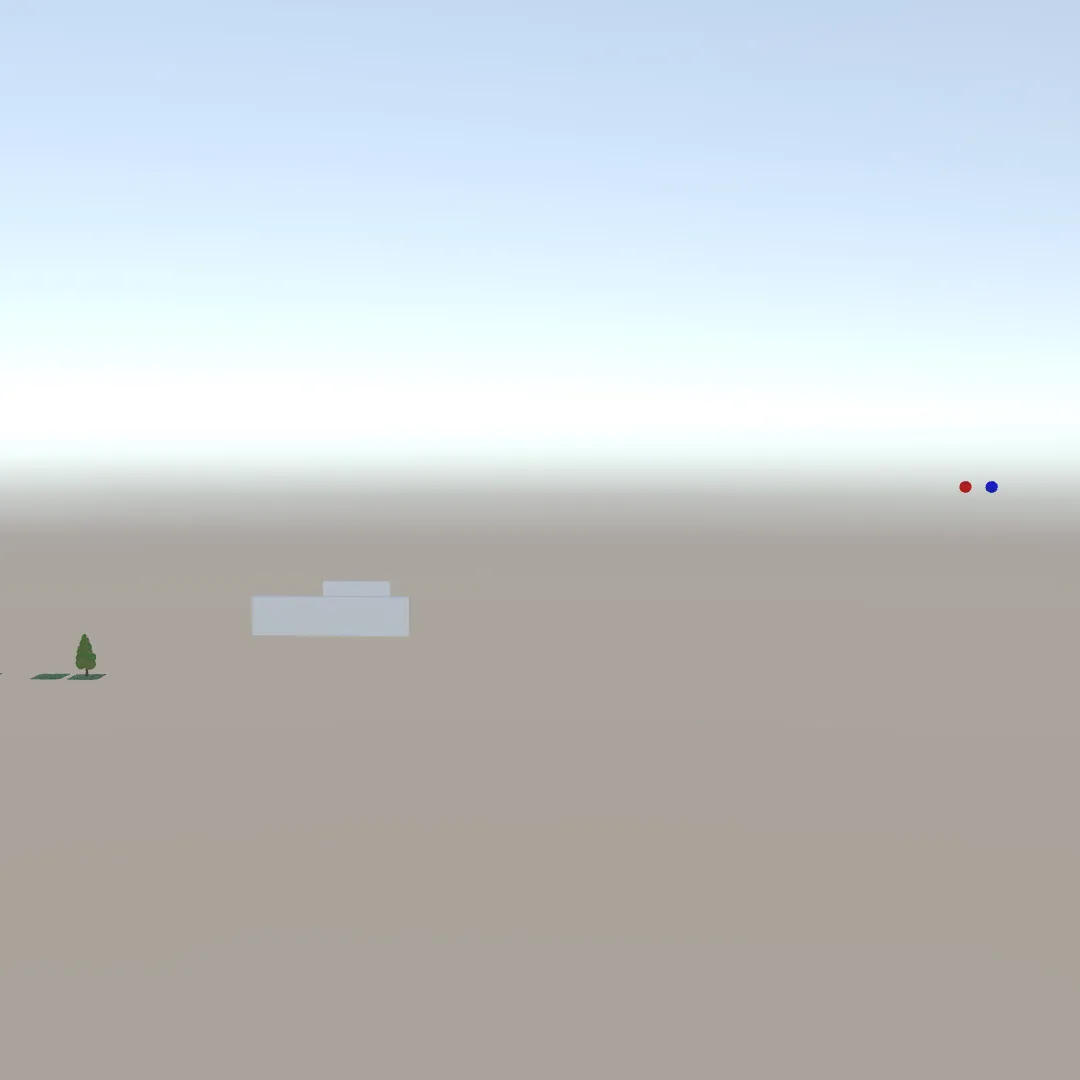
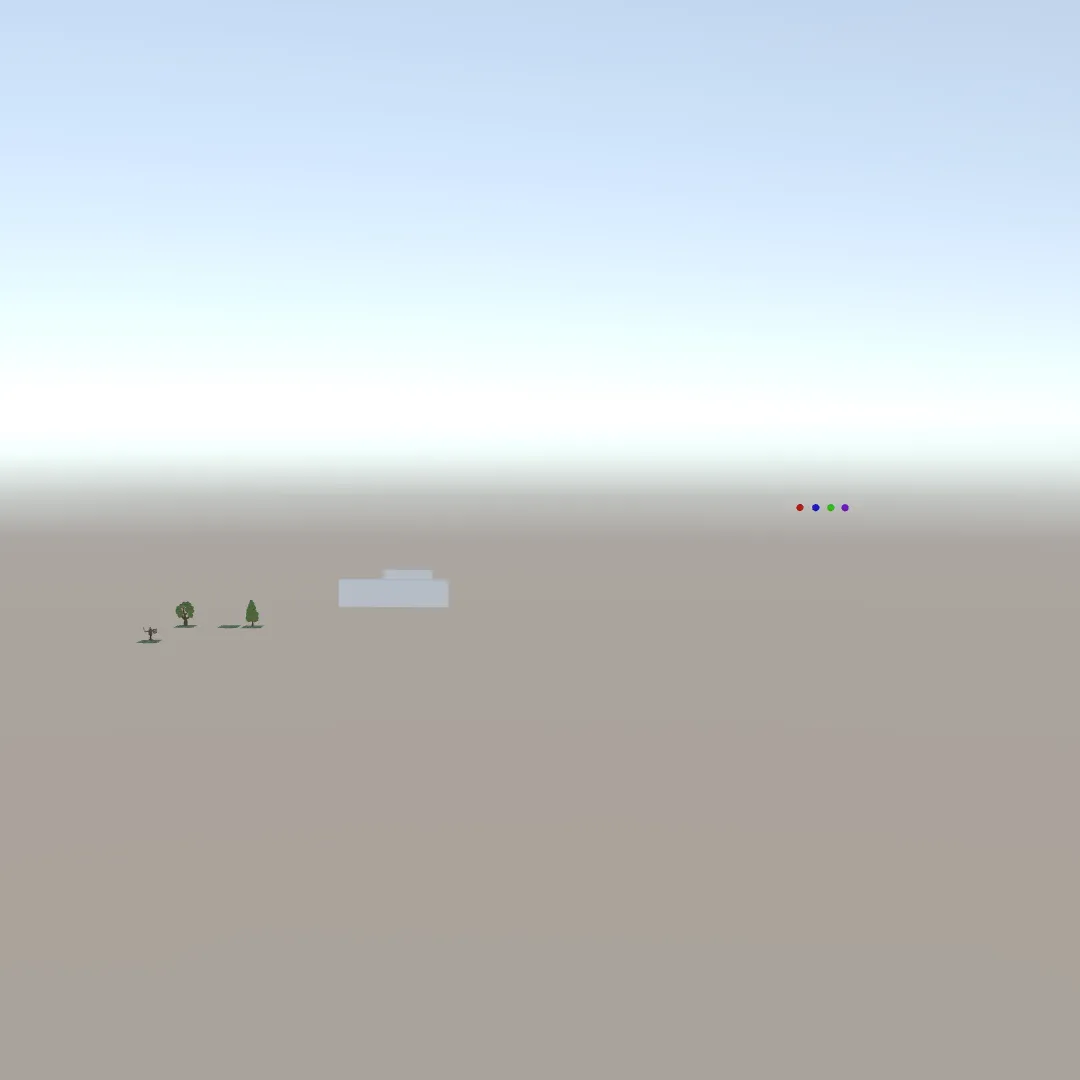
sync balls

diff --git a/AR Minigolf/Needle/newProject/src/scripts/shootBall.ts b/AR Minigolf/Needle/newProject/src/scripts/shootBall.ts
@@ -8,8 +8,6 @@ import { PowerBarHandler } from "./power-bar/PowerBarHandler";
 import { ButtonVisibilityHandler } from "./buttons/ButtonVisibilityHandler";
 import { BallPositionClient } from "./ballposition/ballposition.client";
 import { BallPosition } from "./ballposition/ballposition.model";
-import { DB_BASE_URL } from "../constants";
-import { DisplayedBallPosition } from "./ballposition/displayedBallPosition";
 
 export class ShootBall extends Behaviour {
     private shot: boolean = false;
@@ -40,7 +38,6 @@ export class ShootBall extends Behaviour {
         this.registerSensorEvents();
         this.registerButtonClick();
 
-        setInterval(this.getOtherBallPositions.bind(this), 100);
         setInterval(this.uploadBallPosition.bind(this), 100) 
     }
 
@@ -116,66 +113,6 @@ export class ShootBall extends Behaviour {
         if (!this.directionIndicator) throw new Error('direction indicator is undefined');
 
         this.directionIndicator.visible = visible;
-    }
-
-    private async getOtherBallPositions() {
-        const urlParams = new URLSearchParams(window.location.search);
-        const ownColor = urlParams.get('ball');
-        const sessionId = urlParams.get('sessionId') as string
-        const session = await this.getSession(sessionId);
-
-        const ballPositions = await this.ballPosotionClient.getBallPositions();
-
-        ballPositions.forEach((position) => {
-            const index = session.players.indexOf(position.player);
-            const color = this.getBallColor(index);
-            if (color != ownColor) {
-
-                this.changeDisplayedBallPosition(color, position.x, position.y, position.z);
-            }
-        });
-    }
-
-    private async getSession(id: string): Promise<any> {
-        try {
-            const response = await fetch(`${DB_BASE_URL}/session`);
-            const responseData = await response.json();
-            for (const session of responseData) {
-                if (session.id === id) {
-                    return session;
-                }
-            }
-        } catch (error) {
-            console.error('Error fetching sessions:', error);
-        }
-    }
-
-    private getBallColor(playerIndex) {
-        const colors = ['red', 'blue', 'green', 'purple'];
-
-        return colors[playerIndex];
-    }
-
-    private changeDisplayedBallPosition(color: string, x: number, y: number, z: number) {
-
-        switch (color) {
-            case "blue":
-                const blueBallPosition: DisplayedBallPosition = new DisplayedBallPosition();
-                blueBallPosition.setWorldPosition(x,y,z);
-                break;
-            case "green":
-                const greenBallPosition: DisplayedBallPosition = new DisplayedBallPosition();
-                greenBallPosition.setWorldPosition(x,y,z);
-                break;
-            case "red":
-                const redBallPosition: DisplayedBallPosition = new DisplayedBallPosition();
-                redBallPosition.setWorldPosition(x,y,z);
-                break;
-            case "purple":
-                const purpleBallPosition: DisplayedBallPosition = new DisplayedBallPosition();
-                purpleBallPosition.setWorldPosition(x,y,z);
-                break;
-        }
     }
 
     private uploadBallPosition(){

diff --git a/AR Minigolf/Needle/newProject/src/scripts/syncBalls.ts b/AR Minigolf/Needle/newProject/src/scripts/syncBalls.ts
@@ -1,0 +1,78 @@
+import { Behaviour, Collision, Renderer, serializable } from "@needle-tools/engine"
+import { Object3D } from "three";
+import { DB_BASE_URL } from "../constants";
+import { BallPositionClient } from "./ballposition/ballposition.client";
+
+export class SyncBalls extends Behaviour {
+    private ballPosotionClient = new BallPositionClient();
+
+    @serializable(Object3D)
+    blueBall?: Object3D
+
+    @serializable(Object3D)
+    redBall?: Object3D
+
+    @serializable(Object3D)
+    greenBall?: Object3D
+
+    @serializable(Object3D)
+    purpleBall?: Object3D
+
+    async start() {
+        setInterval(this.getOtherBallPositions.bind(this), 50);
+    }
+    private async getOtherBallPositions() {
+        const urlParams = new URLSearchParams(window.location.search);
+        const ownColor = urlParams.get('ball');
+        const sessionId = urlParams.get('sessionId') as string
+        const session = await this.getSession(sessionId);
+
+        const ballPositions = await this.ballPosotionClient.getBallPositions();
+
+        ballPositions.forEach((position) => {
+            const index = session.players.indexOf(position.player);
+            const color = this.getBallColor(index);
+            if (color != ownColor) {
+
+                this.changeDisplayedBallPosition(color, position.x, position.y, position.z);
+            }
+        });
+    }
+
+    private async getSession(id: string): Promise<any> {
+        try {
+            const response = await fetch(`${DB_BASE_URL}/session`);
+            const responseData = await response.json();
+            for (const session of responseData) {
+                if (session.id === id) {
+                    return session;
+                }
+            }
+        } catch (error) {
+            console.error('Error fetching sessions:', error);
+        }
+    }
+
+    private getBallColor(playerIndex) {
+        const colors = ['red', 'blue', 'green', 'purple'];
+
+        return colors[playerIndex];
+    }
+    
+    private changeDisplayedBallPosition(color: string, x: number, y: number, z: number) {
+        switch (color) {
+            case "blue":
+                this.blueBall?.position.set(x,y,z);
+                break;
+            case "green":
+                this.greenBall?.position.set(x,y,z);
+                break;
+            case "red":
+                this.redBall?.position.set(x,y,z);
+                break;
+            case "purple":
+                this.purpleBall?.position.set(x,y,z);
+                break;
+        }
+    }
+}

diff --git a/AR Minigolf/Needle/newProject/src/scripts/ballposition/displayedBallPosition.ts b/AR Minigolf/Needle/newProject/src/scripts/ballposition/displayedBallPosition.ts
@@ -7,6 +7,7 @@ export class DisplayedBallPosition extends Behaviour {
     body?: Object3D
 
     setPosition(x: number, y: number, z: number) {
+        console.log('POSITION:', x, y, z)
         this.body?.position.setX(x);
         this.body?.position.setY(y);
         this.body?.position.setZ(z);

diff --git a/AR Minigolf/Assets/Needle/Components.codegen/SyncBalls.cs b/AR Minigolf/Assets/Needle/Components.codegen/SyncBalls.cs
@@ -1,0 +1,18 @@
+// NEEDLE_CODEGEN_START
+// auto generated code - do not edit directly
+
+#pragma warning disable
+
+namespace Needle.Typescript.GeneratedComponents
+{
+	public partial class SyncBalls : UnityEngine.MonoBehaviour
+	{
+		public UnityEngine.GameObject @blueBall;
+		public UnityEngine.GameObject @redBall;
+		public UnityEngine.GameObject @greenBall;
+		public UnityEngine.GameObject @purpleBall;
+		public void start(){}
+	}
+}
+
+// NEEDLE_CODEGEN_END
